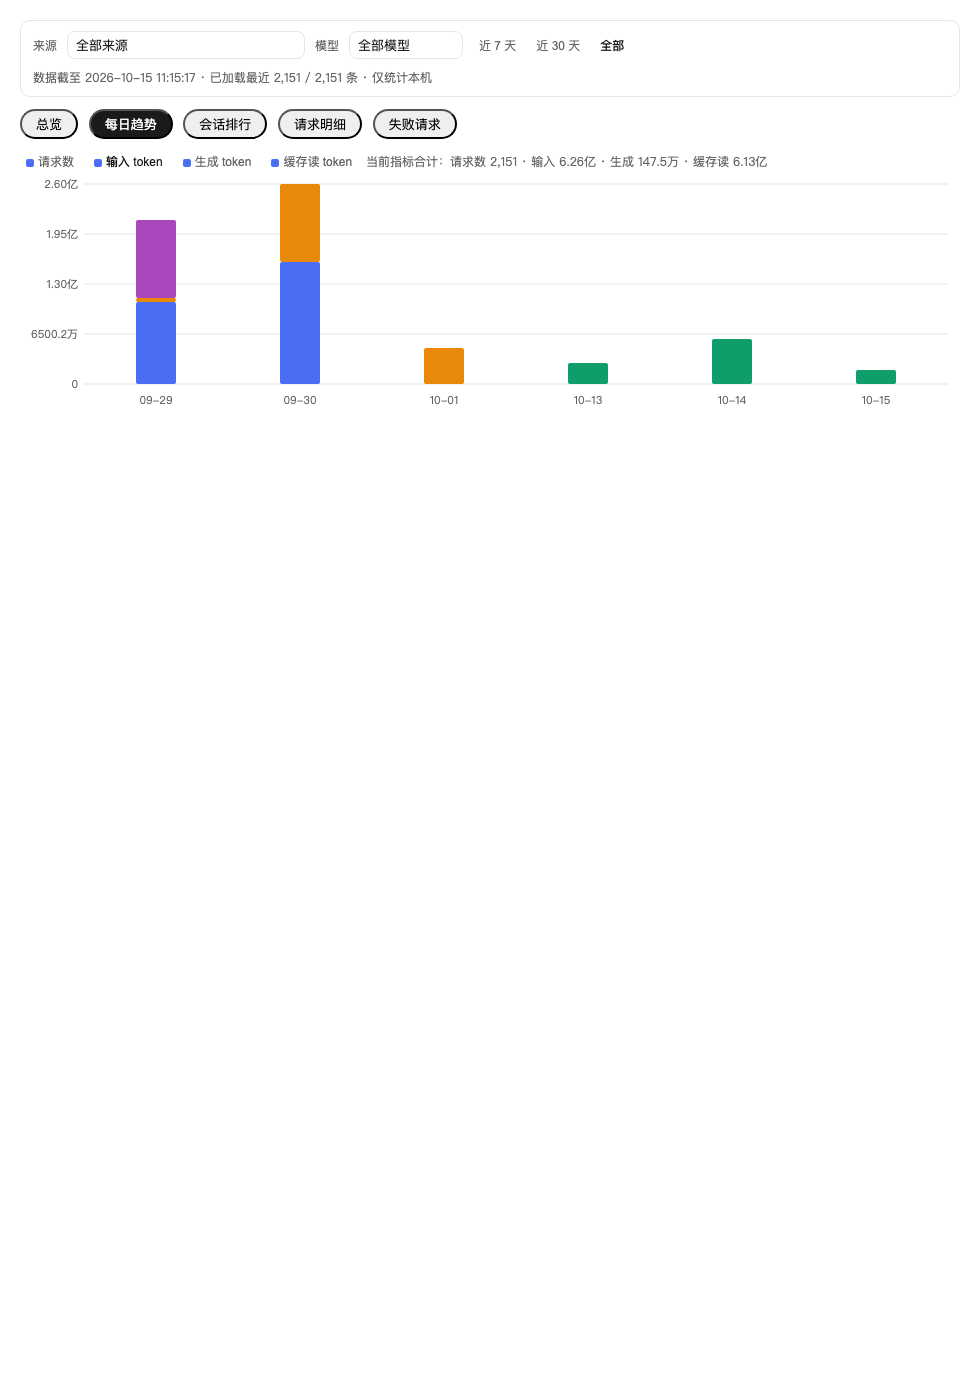
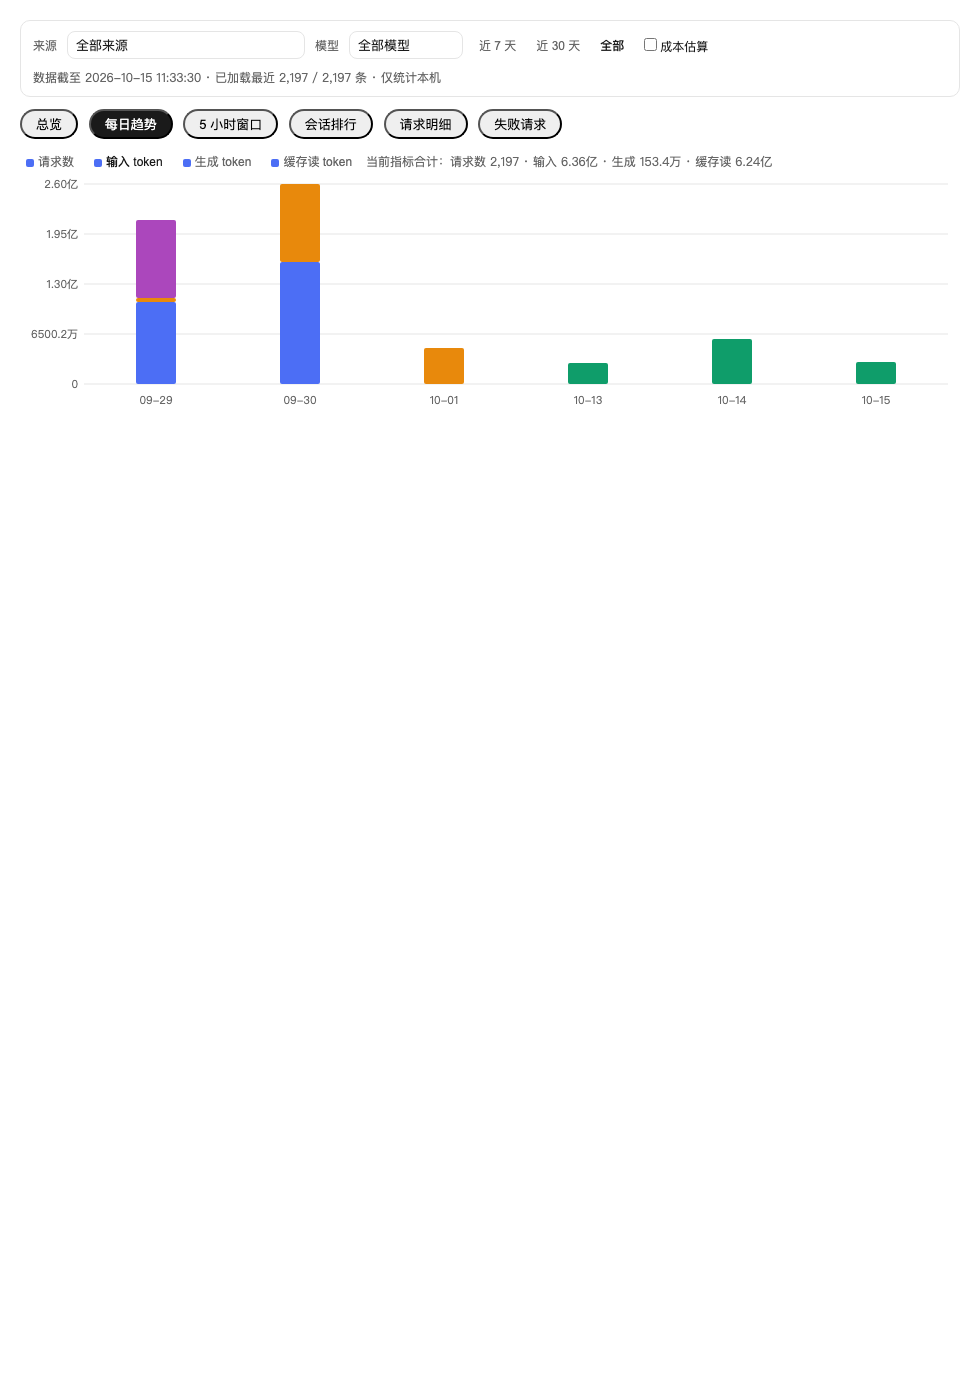
feat: 0.4.0 — 5h billing windows, activity heatmap, insights, subagent split, tool stats, cost estimation and export
Design references: ccusage (blocks/cost), Claude-Code-Usage-Monitor (burn tracking),
DeepSeek Harness community usage plugins (heatmap/insights/export patterns).

Changed region(s): [[0.1837, 0.0307, 0.7959, 0.1229], [0.8878, 0.2457, 0.9184, 0.2764], [0.6735, 0.0307, 0.7041, 0.0614]]

diff --git a/README.md b/README.md
@@ -10,10 +10,14 @@
 
 ## 功能
 
-- **逐条明细**：每次模型请求一行——时间、会话、模型、来源、输入/生成/缓存读 token、耗时、状态
+- **逐条明细**：每次模型请求一行——时间、会话、模型、来源、主会话/子代理、输入/生成/缓存读 token、耗时、状态
 - **来源区分**：自动区分 `account:*` 官方套餐（如 GLM Coding Plan）与自定义/BYOK 接入，仪表盘按来源堆叠展示每日趋势
-- **交互式仪表盘**（`/usage-ui`）：总览 / 每日趋势 / 会话排行 / 请求明细 / 失败请求五个标签页；来源、模型、时间范围（近 7 天 / 30 天 / 全部）全局筛选即时生效；表格点击表头排序；界面自动适配 ZCode 明暗主题
-- **文本查询**（`/usage`）：总览、某天明细、按天汇总、会话排行、模型分布、失败请求
+- **交互式仪表盘**（`/usage-ui`）：总览 / 每日趋势 / 5 小时窗口 / 会话排行 / 请求明细 / 失败请求六个标签页；来源、模型、时间范围（近 7 天 / 30 天 / 全部）全局筛选即时生效；表格点击表头排序；界面自动适配 ZCode 明暗主题
+- **5 小时窗口**：按相邻请求间隔 ≥5h 切分用量窗口（同 ccusage 口径），当前窗口显示进行中进度与剩余时间
+- **洞察指标**：活跃天数、当前/最长连续活跃、峰值日、缓存命中率、平均耗时、主会话/子代理拆分、最常用工具
+- **活跃热力图**：GitHub 提交风格，按天 token 四分位着色，悬停看当日明细
+- **成本估算**（可选）：在 `~/.zcode/usage-prices.json` 配置价格表后，`cost` 命令与仪表盘"成本估算"开关即可按官方牌价估算花费
+- **导出**：`export csv` / `export json` 全量记录（CSV 遵循 RFC 4180）
 - **零依赖**：只用 macOS / Linux 自带的 `bash` + `sqlite3`，不需要 Node / Python
 
 数据来自 ZCode 客户端本地数据库 `~/.zcode/cli/db/db.sqlite`（只读）。
@@ -60,12 +64,28 @@ git clone https://github.com/axdlee/zcode-usage-detail.git
 |---|---|
 | `/usage-ui` | 生成交互式仪表盘，内嵌渲染在会话中 |
 | `/usage` | 文本总览（累计 + 今日） |
+| `/usage blocks` | 5 小时窗口用量（含进行中的窗口） |
 | `/usage recent 50` | 最近 50 条逐条明细 |
 | `/usage providers` | 按来源（官方套餐 / 自定义接入）汇总 |
+| `/usage months` | 按月汇总 |
+| `/usage projects 10` | 按项目目录汇总 Top 10 |
+| `/usage tools` | 工具调用统计 |
+| `/usage cost` | 成本估算（需先配置价格表，见下） |
+| `/usage export csv` | 导出全部记录为 CSV |
 | `/usage day 2026-10-14` | 某天的逐条明细 |
 | `/usage sessions 10` | 会话用量排行 Top 10 |
 | `/usage errors` | 最近的失败/取消请求 |
 | “看看我哪个会话最烧 token” | 自然语言同样可以，会自动路由到对应查询 |
+
+### 成本估算（可选）
+
+创建 `~/.zcode/usage-prices.json`（单位：元/百万 token，键为模型名，大小写不敏感，可只写常用模型）：
+
+```json
+{ "GLM-5.3": {"in": 8, "out": 32, "cache": 2}, "GLM-5.3-Flash": {"in": 0.5, "out": 2, "cache": 0.1} }
+```
+
+配置后 `/usage cost` 给出按模型拆分的估算；仪表盘顶部出现"成本估算"开关，打开后会话排行与来源构成会追加成本列。注意：订阅套餐（如 GLM Coding Plan）内的请求实际不按 token 计费，估算仅供 BYOK 按量计费或心理参考。
 
 ### 仪表盘预览
 
@@ -90,6 +110,11 @@ git clone https://github.com/axdlee/zcode-usage-detail.git
 - 只统计**本机、本账号**在 ZCode 内的请求
 - 本地库结构可能随 ZCode 版本演进变化（当前在 0.16.x 验证通过）
 - 界面基于 ZCode Desktop 的 Gen UI 内嵌渲染，需在桌面端使用
+- 5 小时窗口与成本均为**本地近似口径**，服务端套餐配额以 ZCode 的 Usage Stats → Coding Plan 为准
+
+## 致谢
+
+设计参考了这些优秀的同类项目：[ccusage](https://github.com/ccusage/ccusage)（5 小时窗口 / 成本报告）、[Claude-Code-Usage-Monitor](https://github.com/Maciek-roboblog/Claude-Code-Usage-Monitor)（燃烧率与耗尽预测）以及 DeepSeek Harness 社区的用量插件家族（活跃热力图、缓存命中率、连续活跃、导出等思路）。
 
 ## License
 

diff --git a/usage-detail/skills/usage-detail/SKILL.md b/usage-detail/skills/usage-detail/SKILL.md
@@ -22,6 +22,12 @@ bash "<本技能目录>/../../scripts/usage.sh" <子命令> [参数]
 | `dashboard <输出.html>` | 生成交互式仪表盘（HTML 片段） | "界面看看"、"仪表盘"、"图形化" |
 | `summary` | 总览：累计 + 今日（默认） | "我的用量怎么样" |
 | `providers` | 按来源汇总（官方套餐 / 自定义接入） | "官方套餐和 API Key 各用了多少" |
+| `blocks` | 5 小时窗口用量（末尾窗口若在 5h 内即进行中） | "这个 5 小时周期用了多少" |
+| `months` | 按月汇总 | "这个月用了多少" |
+| `projects [N]` | 按项目目录汇总 Top N（默认 15） | "哪个项目最烧 token" |
+| `tools [N]` | 工具调用统计 Top N（默认 15） | "最常用的工具是什么" |
+| `cost` | 成本估算（需价格表 ~/.zcode/usage-prices.json） | "估算一下花了多少钱" |
+| `export csv\|json [路径]` | 导出全部记录 | "导出成 CSV" |
 | `recent [N]` | 最近 N 条逐条明细（默认 20） | "看每条记录"、"最近 50 条" |
 | `day [YYYY-MM-DD]` | 某天逐条明细（缺省今天） | "今天用了多少"、"看 10 月 14 日的" |
 | `days [N]` | 最近 N 天按天汇总（默认 14） | "最近一周每天的用量" |
